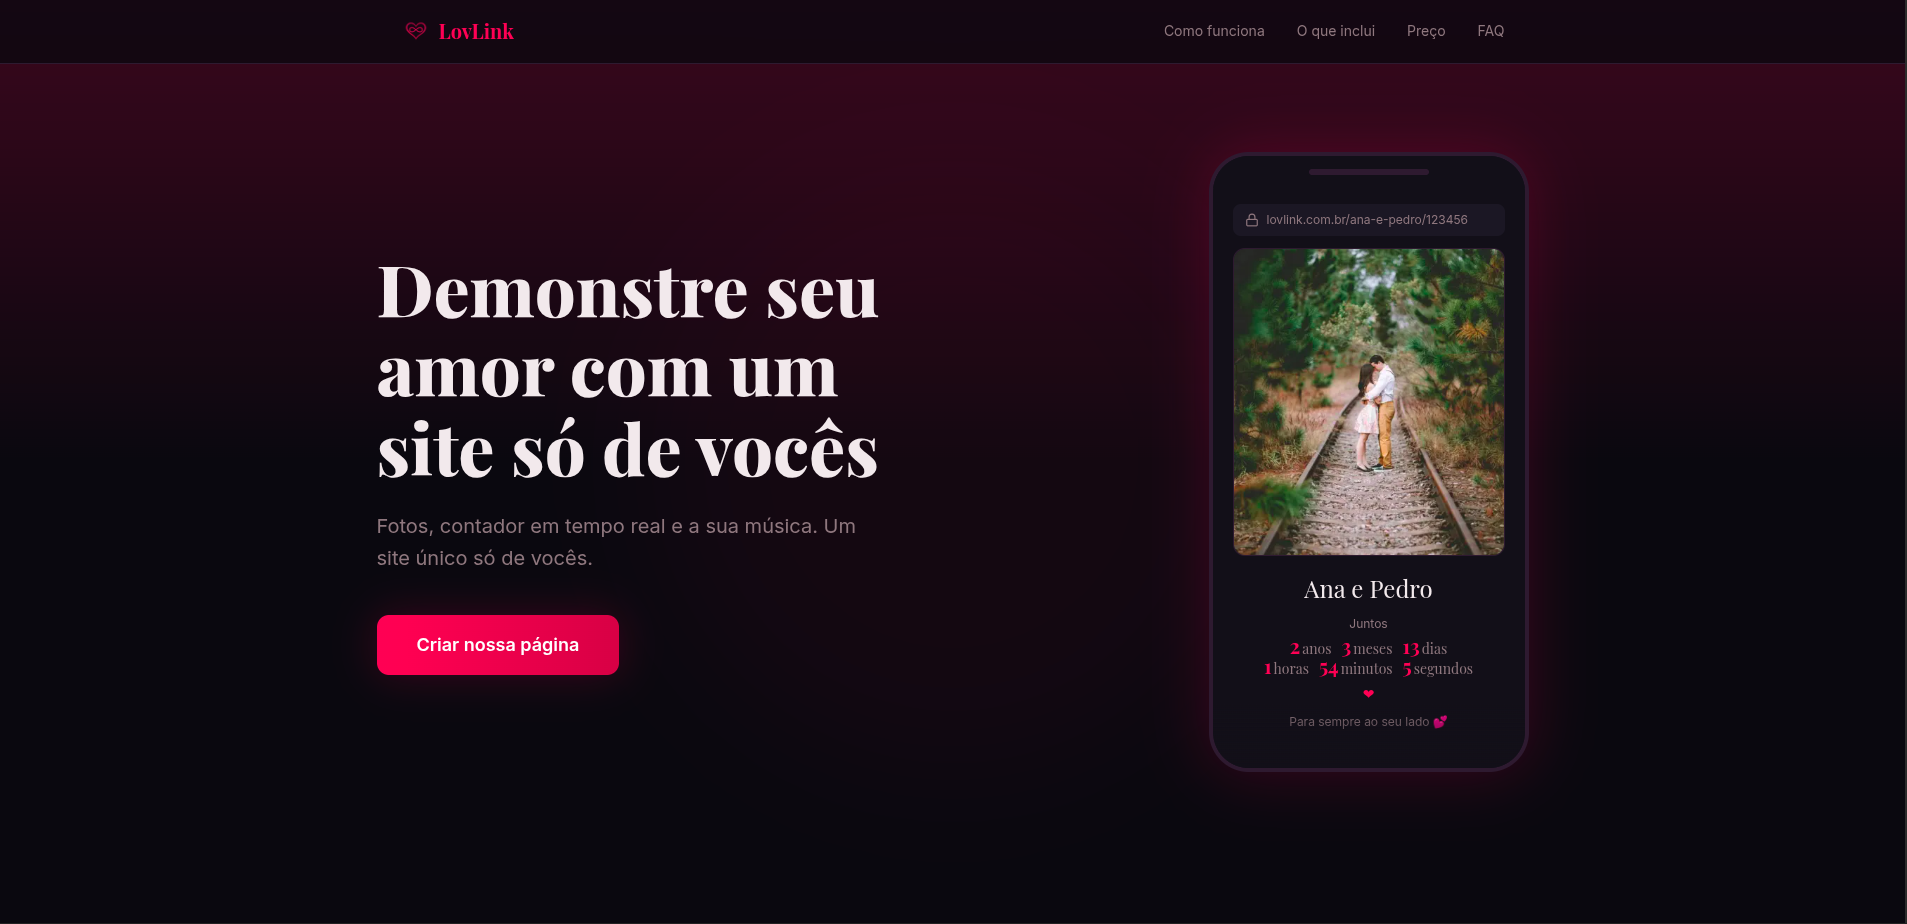
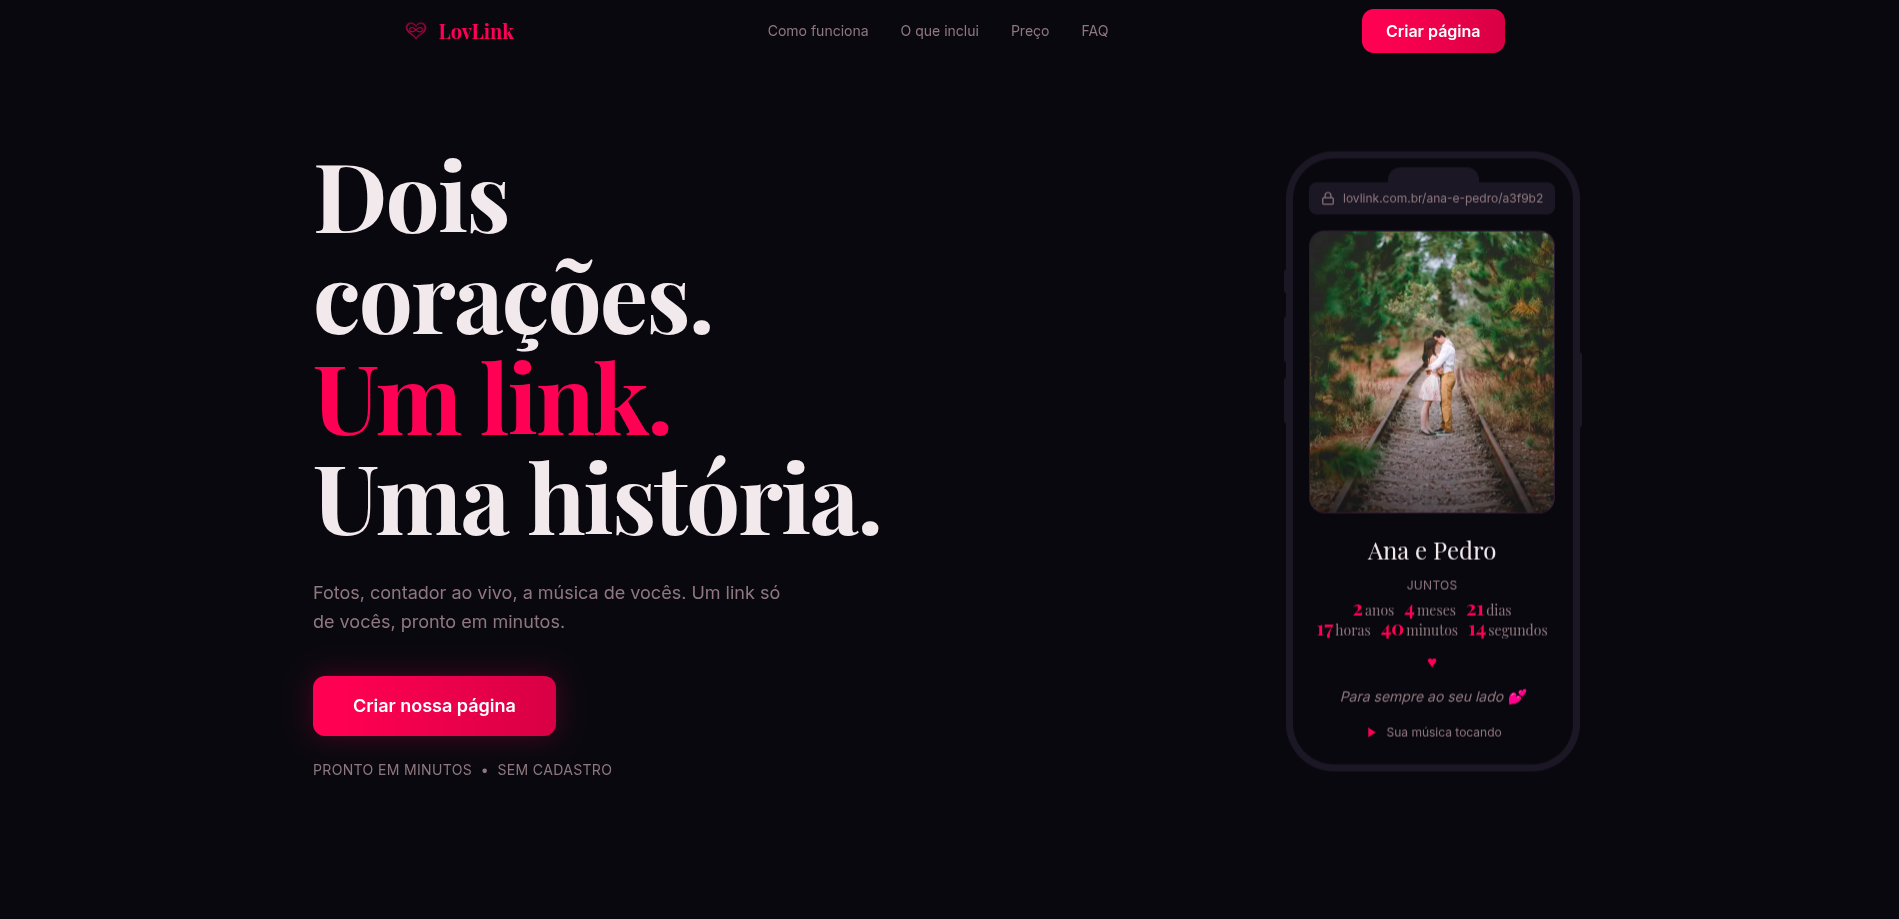
feat: add job-hunter image and update descriptions

diff --git a/lib/data.ts b/lib/data.ts
@@ -73,8 +73,9 @@ export const projects = [
     {
         id: "jobhunter",
         title: "Job Hunter",
-        description: "A Java + Spring Boot application that automates junior developer job search, analyzes listings with AI, and generates personalized application emails.",
-        technologies: ["Java 21", "Spring Boot", "PostgreSQL", "Docker", "Flyway", "Clean Architecture", "JWT", "OpenRouter AI"],
+        description: "Automates junior job search across Gupy, InfoJobs and LinkedIn, analyzes each listing with AI and generates personalized application emails.",
+        imageUrl: "/job-hunter.png",
+        technologies: ["Java 21", "Spring Boot", "PostgreSQL", "Docker", "Flyway", "Clean Architecture", "JWT", "OpenRouter AI", "Rust", "Playwright"],
         githubRepos: [
             { label: "Repository", url: "https://github.com/Uzzoper/job-hunter" },
         ],

diff --git a/lib/dictionaries/pt.ts b/lib/dictionaries/pt.ts
@@ -98,7 +98,7 @@ export const pt = {
             },
             jobhunter: {
                 title: "Job Hunter",
-                description: "Uma aplicação Java + Spring Boot que automatiza a busca de vagas para desenvolvedores júnior, analisa anúncios com IA e gera e-mails de candidatura personalizados.",
+                description: "Automatiza a busca de vagas júnior no Gupy, InfoJobs e LinkedIn, analisa cada vaga com IA e gera e-mails de candidatura personalizados.",
             }
         }
     },

diff --git a/lib/dictionaries/en.ts b/lib/dictionaries/en.ts
@@ -98,7 +98,7 @@ export const en = {
             },
             jobhunter: {
                 title: "Job Hunter",
-                description: "A Java + Spring Boot application that automates junior developer job search, analyzes listings with AI, and generates personalized application emails.",
+                description: "Automates junior job search across Gupy, InfoJobs and LinkedIn, analyzes each listing with AI and generates personalized application emails.",
             }
         }
     },
